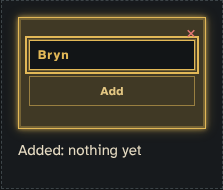
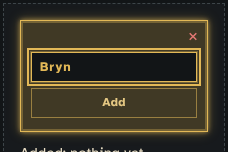
Refs #102: keep the add seat's × clear of the focused name field's outline
The frame centred the field with 8px above it, so the field's gold focus outline ran into the ×
in the corner; the frame's top padding now holds the ×'s 22px.

Claude-Session: https://claude.ai/code/session_01BjVQX8wTPtaH6Eq6ruZmvE

diff --git a/src/lib/components/lobby/SeatCard.svelte b/src/lib/components/lobby/SeatCard.svelte
@@ -315,7 +315,8 @@
 		gap: var(--space-3);
 		width: 100%;
 		height: 100%;
-		padding: var(--space-4) var(--space-5);
+		/* The top keeps the ×'s 22px corner clear of the focused name field's outline. */
+		padding: calc(var(--space-2) + 22px) var(--space-5) var(--space-4);
 		border: var(--border) solid var(--gold);
 		border-radius: var(--radius);
 		background: color-mix(in srgb, var(--gold) 22%, var(--ink));
